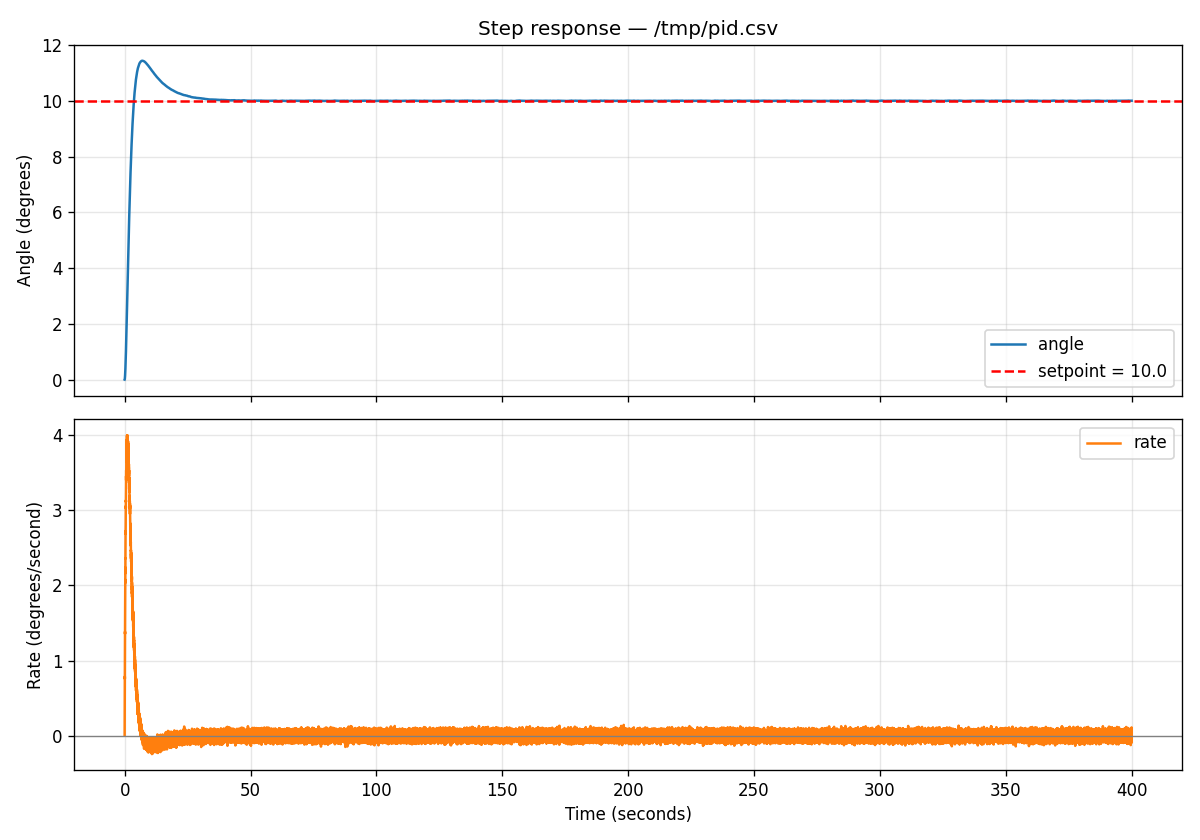
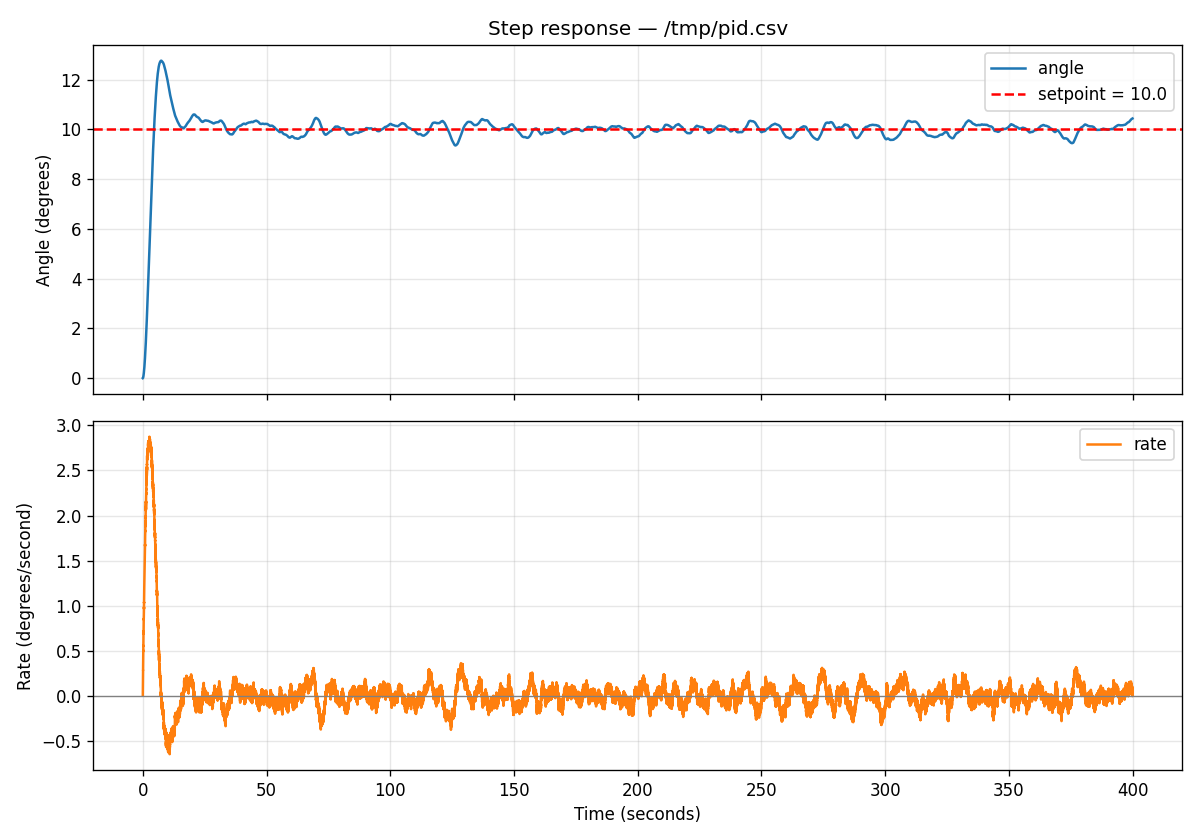
Clamp tests: motor limit harmless, noise saturates output

diff --git a/algorithm/pid.c b/algorithm/pid.c
@@ -7,7 +7,6 @@ void pid_init(pid_t *pid, const pid_params_t *params, fix16_t dt) {
     pt1_init(&pid->dterm_filter, params->dterm_cutoff_hz, dt);
 }
 
-/* change gains or cutoff while running: keeps integral and filter state */
 void pid_set_params(pid_t *pid, const pid_params_t *params, fix16_t dt) {
     pid->params = *params;
     pt1_set_cutoff(&pid->dterm_filter, params->dterm_cutoff_hz, dt);
@@ -15,17 +14,11 @@ void pid_set_params(pid_t *pid, const pid_params_t *params, fix16_t dt) {
 
 fix16_t pid_update(pid_t *pid, fix16_t setpoint, fix16_t measurement, fix16_t dt) {
     const pid_params_t *p = &pid->params;
+    fix16_t neg_limit = fix16_sub(0, p->out_limit);
     fix16_t error = fix16_sub(setpoint, measurement);
 
     /* P */
     fix16_t p_term = fix16_mul(p->kp, error);
-
-    /* I: accumulate error, clamped against windup */
-    pid->integral = fix16_add(pid->integral, fix16_mul(error, dt));
-    if (pid->integral >  p->i_limit) pid->integral =  p->i_limit;
-    if (pid->integral < fix16_sub(0, p->i_limit))
-        pid->integral = fix16_sub(0, p->i_limit);
-    fix16_t i_term = fix16_mul(p->ki, pid->integral);
 
     /* D on measurement, negated, then low-passed */
     fix16_t change     = fix16_sub(measurement, pid->prev_measurement);
@@ -33,7 +26,29 @@ fix16_t pid_update(pid_t *pid, fix16_t setpoint, fix16_t measurement, fix16_t dt
     derivative = pt1_apply(&pid->dterm_filter, derivative);
     fix16_t d_term = fix16_mul(p->kd, fix16_sub(0, derivative));
 
+    /* I: work out what the integral would become */
+    fix16_t new_integral = fix16_add(pid->integral, fix16_mul(error, dt));
+    if (new_integral >  p->i_limit) new_integral =  p->i_limit;
+    if (new_integral < fix16_sub(0, p->i_limit)) new_integral = fix16_sub(0, p->i_limit);
+
+    fix16_t i_term = fix16_mul(p->ki, new_integral);
+    fix16_t output = fix16_add(fix16_add(p_term, i_term), d_term);
+
+    /* conditional integration: if the output is clamped and the error would
+     * push it further into the clamp, do not let the integral grow */
+    int pushing_high = (output > p->out_limit) && (error > 0);
+    int pushing_low  = (output < neg_limit)    && (error < 0);
+
+    if (pushing_high || pushing_low) {
+        i_term = fix16_mul(p->ki, pid->integral);      /* keep the old integral */
+        output = fix16_add(fix16_add(p_term, i_term), d_term);
+    } else {
+        pid->integral = new_integral;
+    }
+
     pid->prev_measurement = measurement;
 
-    return fix16_add(fix16_add(p_term, i_term), d_term);
+    if (output >  p->out_limit) output = p->out_limit;
+    if (output < neg_limit)     output = neg_limit;
+    return output;
 }

diff --git a/test/test_pid.c b/test/test_pid.c
@@ -1,7 +1,7 @@
 #include <stdio.h>
+#include <stdint.h>
 #include "../sim/plant.h"
 #include "../algorithm/pid.h"
-#include <stdint.h>
 
 int main(void) {
     plant_t p;
@@ -9,37 +9,48 @@ int main(void) {
 
     fix16_t dt       = F16(0.002);
     fix16_t setpoint = F16(10.0);
-    
+
     plant_init(&p, F16(1.0));
-        pid_params_t params = {
+
+    pid_params_t params = {
         .kp = F16(1.0),
         .ki = F16(0.1),
         .kd = F16(2.0),
         .i_limit = F16(50.0),
+        .out_limit = F16(5.0),
         .dterm_cutoff_hz = F16(20.0),
     };
     pid_init(&pid, &params, dt);
 
+    int sat_count = 0;
+
     printf("time,angle,rate\n");
 
     for (int i = 0; i < 200000; i++) {
-        fix16_t measured = plant_measure(&p, F16(0.1));   /* 0.1 deg of noise */
-        if (i < 5) {
-           fprintf(stderr, "i=%d true=%.4f measured=%.4f\n", i,
-           (double)p.angle / 65536.0,
-           (double)measured / 65536.0);
-        }
-        fix16_t torque = pid_update(&pid, setpoint, measured, dt);
+        fix16_t measured = plant_measure(&p, F16(0.1));   /* noise amplitude: 0.0 = off */
+        fix16_t torque   = pid_update(&pid, setpoint, measured, dt);
+
+        if (torque >= F16(5.0) || torque <= F16(-5.0)) sat_count++;
+
         plant_step(&p, torque, dt);
+
+        if (i < 5) {
+            fprintf(stderr, "i=%d torque=%.4f max_torque=%.4f angle=%.4f\n", i,
+                    (double)torque / 65536.0,
+                    (double)p.max_torque / 65536.0,
+                    (double)p.angle / 65536.0);
+        }
 
         printf("%.3f,%.4f,%.4f\n",
                (i + 1) * 0.002,
                (double)p.angle / 65536.0,
                (double)p.rate  / 65536.0);
     }
+
+    fprintf(stderr, "clamped on %d of 200000 samples (%.1f%%)\n",
+            sat_count, sat_count / 2000.0);
     fprintf(stderr, "final integral raw = %d  (%.4f)\n",
-    pid.integral, (double)pid.integral / 65536.0);
+            pid.integral, (double)pid.integral / 65536.0);
 
     return 0;
 }
- 

diff --git a/sim/plant.c b/sim/plant.c
@@ -12,9 +12,17 @@ void plant_init(plant_t *p, fix16_t inertia) {
     p->angle   = 0;
     p->rate    = 0;
     p->inertia = inertia;
+    p->max_torque = F16(5.0); /*its the limit of the motor and ut can't move faster than that */   
 }
 
+    
+
 void plant_step(plant_t *p, fix16_t torque, fix16_t dt) {
+
+    if (torque >  p->max_torque) torque =  p->max_torque;
+    if (torque < -p->max_torque) torque = -p->max_torque;
+
+
     /* Newton: acceleration = torque / inertia */
     fix16_t accel = fix16_div(torque, p->inertia);
 

diff --git a/algorithm/pid.h b/algorithm/pid.h
@@ -4,12 +4,12 @@
 #include "fix16.h"
 #include "filter.h"
 
-/* everything you tune lives here */
 typedef struct {
     fix16_t kp;
     fix16_t ki;
     fix16_t kd;
     fix16_t i_limit;
+    fix16_t out_limit;        /* the largest output the actuator can use */
     fix16_t dterm_cutoff_hz;
 } pid_params_t;
 

diff --git a/sim/plant.h b/sim/plant.h
@@ -7,6 +7,7 @@ typedef struct {
     fix16_t angle;      /* degrees */
     fix16_t rate;       /* degrees per second */
     fix16_t inertia;    /* resistance to being spun up */
+    fix16_t max_torque;  /* saturtion  limit */
 } plant_t;
 
 void plant_init(plant_t *p, fix16_t inertia);

diff --git a/docs/TUNING.md b/docs/TUNING.md
@@ -16,3 +16,9 @@ Plant: inertia 1.0, no damping. Setpoint 10 deg. dt = 2 ms, 20 s run.
 | 9  | 1.0 | 0.1 | 2.0 | 50 | 14.4%       | 10.00 |      0.1 deg noise, 20 Hz D filter |
 | 10 | 1.0 | 0.1 | 2.0 | 50 | 14.1%       | 10.00 |      5 Hz D filter, lag cost not visible on this slow plant |
 | 12 | 1.0 | 0.1 | 2.0 | 50 | 14.4%       | 10.00 |      params struct refactor, matches run 9 |
+| 13 | 1.0 | 0.1 | 2.0 | 50 | 39.0% | 10.40 | motor clamp at 5, no windup protection |
+| 14 | 1.0 | 0.1 | 2.0 | 50 | 27.6% | 10.44 | clamp at 5, conditional integration, not yet settled |
+
+
+---------------------------"Gyros_Calibration-----------------------------------------------
+1)calibration at 1000 samples gives 1.4958 for a true 1.5, which is a 0.28° residual after 60 s
